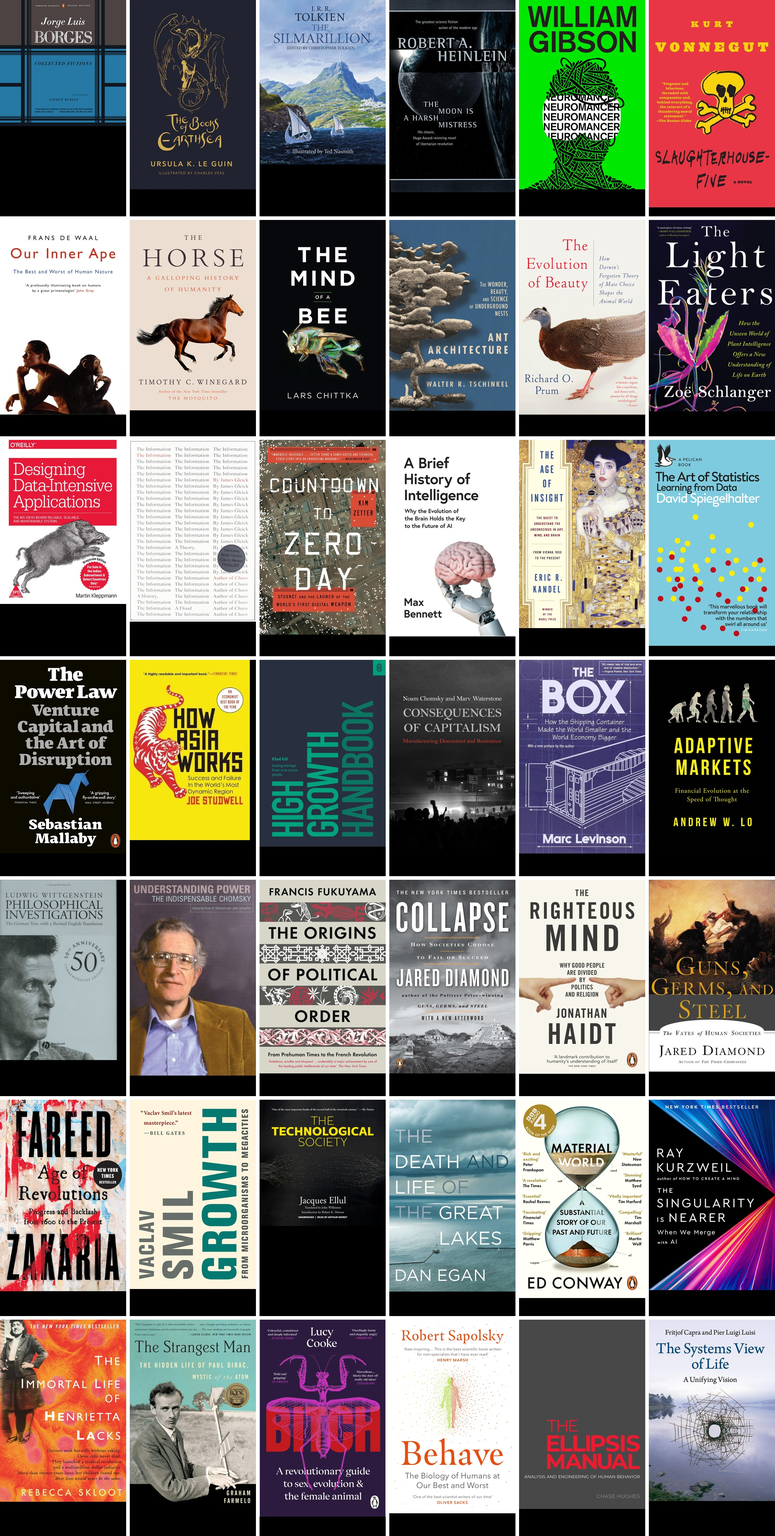
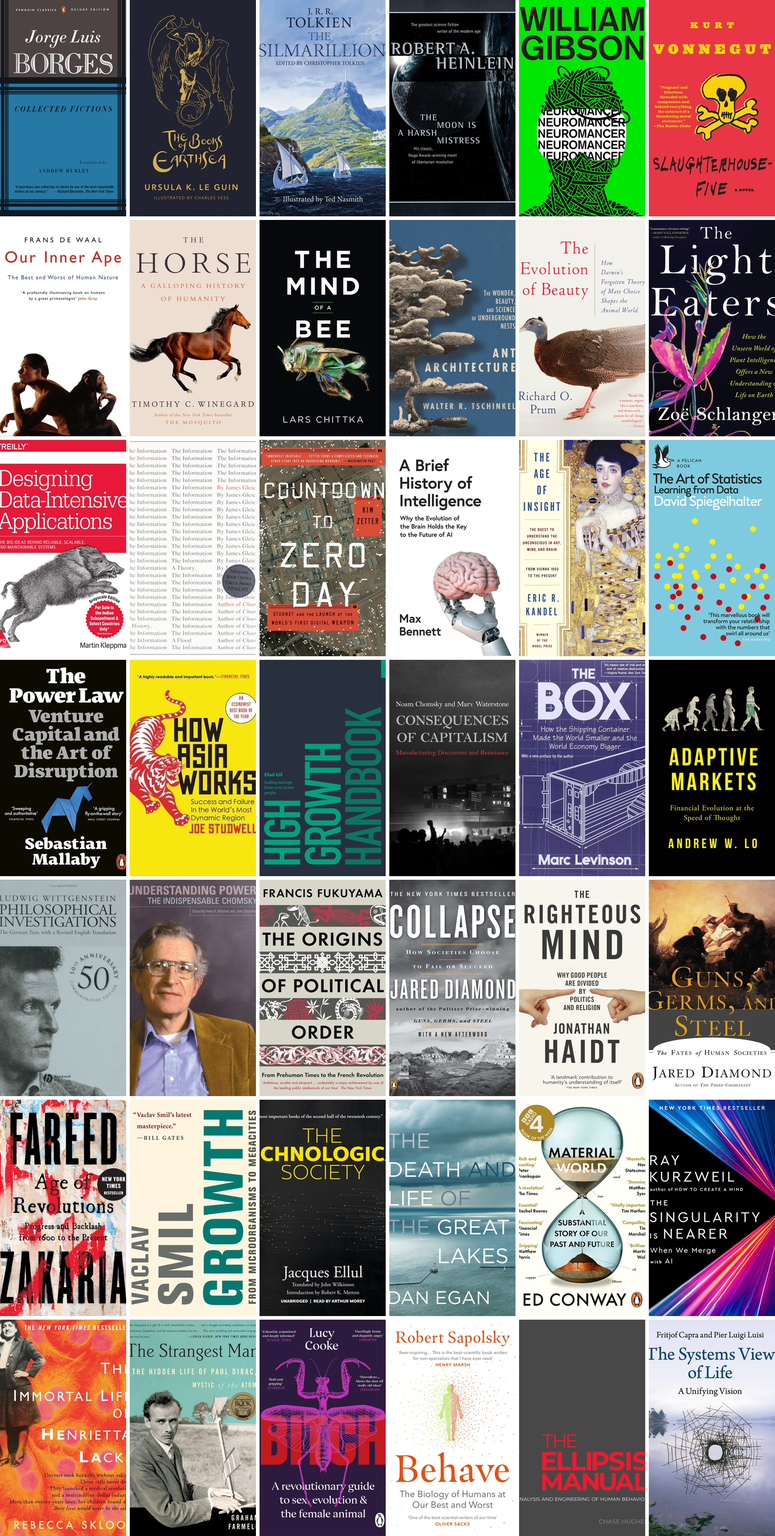
center properly

diff --git a/collage_gen.py b/collage_gen.py
@@ -125,10 +125,15 @@ def create_collage(input_dir='.', output_file='books_collage.jpg', cols=5,
                 img.thumbnail((target_width, target_height), Image.Resampling.LANCZOS)
                 
                 if img.size != (target_width, target_height):
-                    left = (img.width - target_width) // 2 if img.width > target_width else 0
-                    top = (img.height - target_height) // 2 if img.height > target_height else 0
-                    right = left + target_width
-                    bottom = top + target_height
+                    ratio = max(target_width / img.width, target_height / img.height)
+                    new_width = int(img.width * ratio)
+                    new_height = int(img.height * ratio)
+                    img = img.resize((new_width, new_height), Image.Resampling.LANCZOS)
+
+                    left = (new_width - target_width) // 2
+                    top = (new_height - target_height) // 2
+                    right = (new_width + target_width) // 2
+                    bottom = (new_height + target_height) // 2
                     img = img.crop((left, top, right, bottom))
                                     
                 col = (i - 1) % cols
